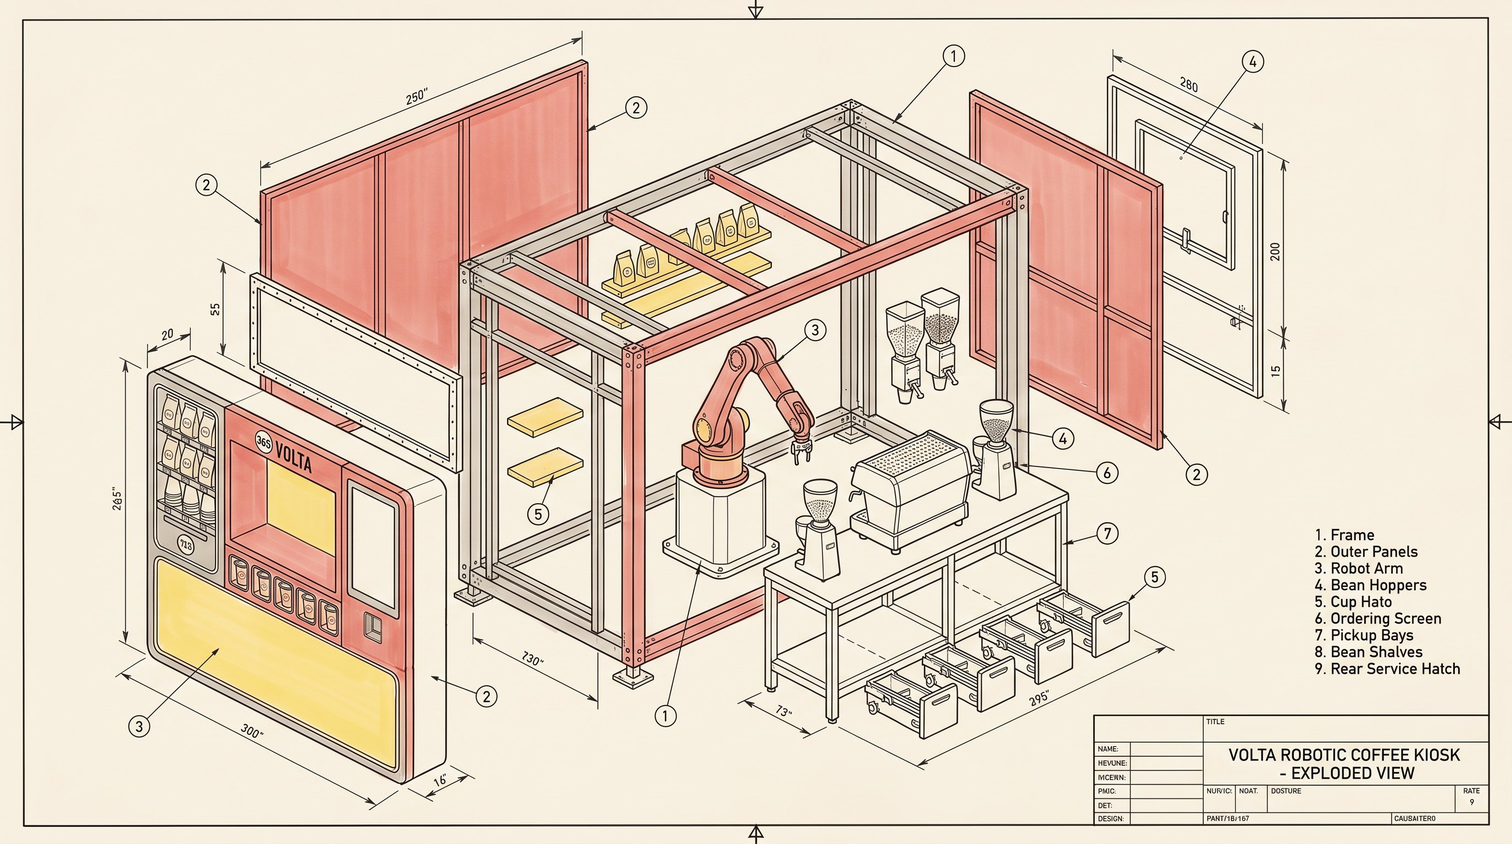
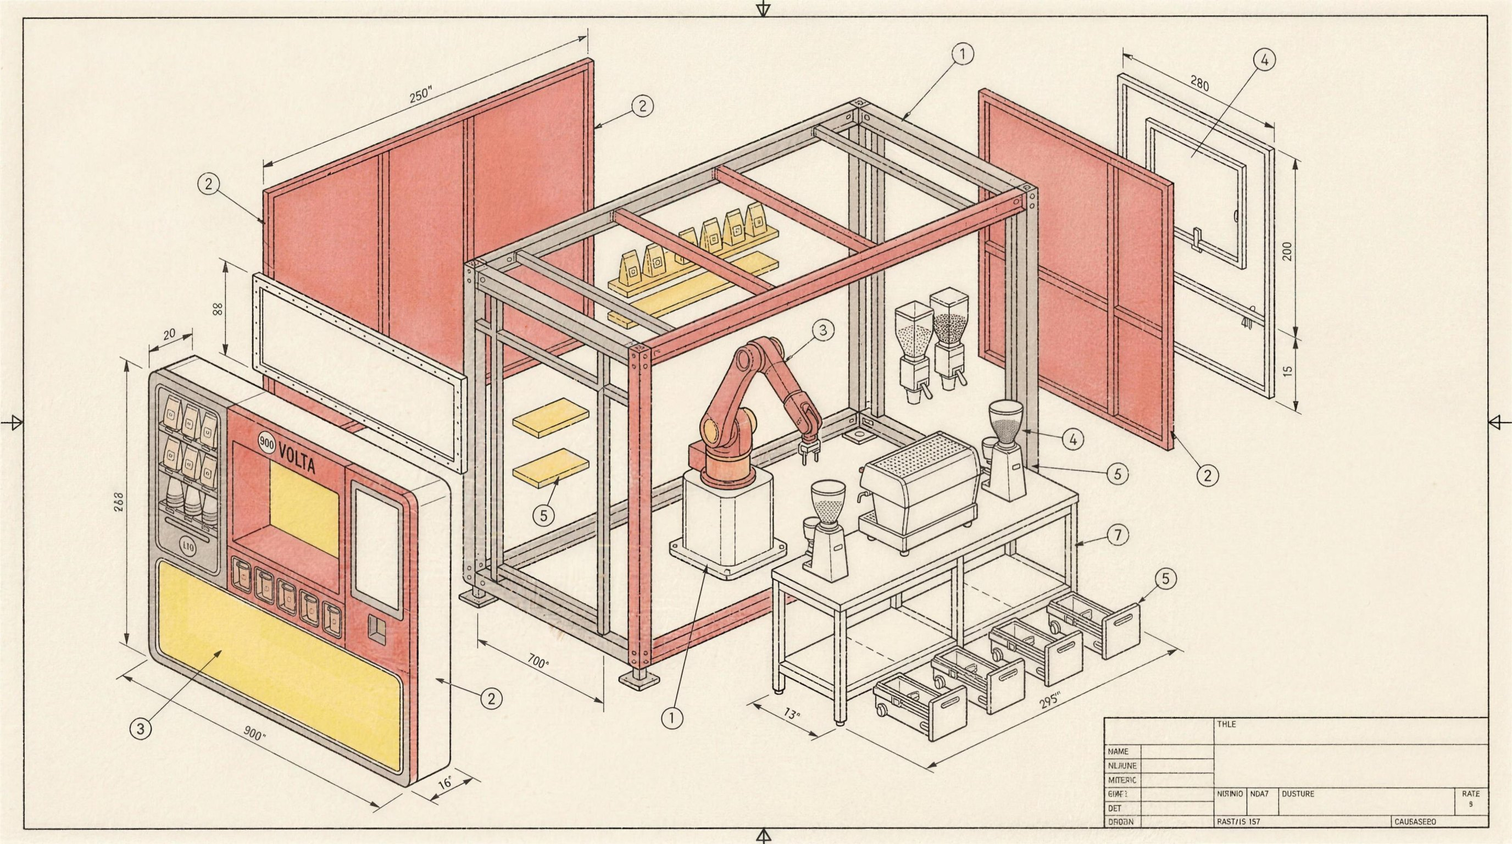
Plan to open plays as a film the scroll drives
Jesse: "a 3D scroll from plan to build, with motion, a scroll trigger", and it
may become the website's opening. Seven clips filmed between the eight
established frames (each locked to its start and end frame) are cut to 141
frames; src/scrub.js draws the one for where the window is, forwards and
backwards, loading only as the film comes near. The film is one snap area so
the scroll runs through it freely. build.py injects scrub.js; the export
copies every frame a data-frames attribute names. The exploded drawing loses
its misspelled legend.

diff --git a/deck/coffee-machine/index.html b/deck/coffee-machine/index.html
@@ -107,6 +107,12 @@
   .seq-back{position:sticky;top:var(--bar);height:calc(100vh - var(--bar));height:calc(100svh - var(--bar));overflow:hidden;margin-bottom:calc(-100vh + var(--bar));margin-bottom:calc(-100svh + var(--bar));background:var(--night)}
   .seq-back img{position:absolute;inset:0;width:100%;height:100%;object-fit:cover;opacity:0}
   .seq-back img.b1{opacity:1}
+  /* The plan to open film (src/scrub.js): the canvas covers the first still once it can draw, and the whole film is
+     one snap area, so the scroll runs through it freely instead of stopping at each stage. */
+  .seq-back canvas{position:absolute;inset:0;width:100%;height:100%;opacity:0}
+  .seq-back canvas.live{opacity:1}
+  .seq.film{scroll-snap-align:start}
+  .seq.film .stage{scroll-snap-align:none;scroll-snap-stop:normal}
   .seq .slide{background:transparent!important}
   .seq .full{background:transparent}
   .seq .full::before{content:"";position:absolute;inset:0;background:transparent}
@@ -551,16 +557,10 @@
   </div></div>
 </section>
 
-<div class="seq">
+<div class="seq film">
   <div class="seq-back" aria-hidden="true">
-    <img src="../../img/deck/build-1.jpg" width="2752" height="1536" alt="Volta, the floor plan" data-at="0" class="b1">
-    <img src="../../img/deck/build-2.jpg" width="2752" height="1536" alt="Volta, the sketch" data-at="1">
-    <img src="../../img/deck/build-3.jpg" width="2752" height="1536" alt="Volta, the machine drawn part by part" data-at="2">
-    <img src="../../img/deck/build-4.jpg" width="2752" height="1536" alt="Volta, the bare frame" data-at="3">
-    <img src="../../img/deck/build-5.jpg" width="2752" height="1536" alt="Volta, the machine in the frame" data-at="3.34">
-    <img src="../../img/deck/build-6.jpg" width="2752" height="1536" alt="Volta, the panels on" data-at="3.67">
-    <img src="../../img/deck/build-7.jpg" width="2752" height="1536" alt="Volta, the brand going on" data-at="4">
-    <img src="../../img/deck/build-8.jpg" width="2752" height="1536" alt="Volta, trading" data-at="5">
+    <img src="../../img/deck/build-1.jpg" width="2752" height="1536" alt="Volta, the floor plan" class="b1">
+    <canvas data-frames="../../img/deck/plan-to-open/f{n}.webp" data-count="141" data-knots="0,20,40,80,120,140"></canvas>
   </div>
 <section class="stage" id="s4" aria-label="Slide 4. Plan to open, plan">
   <div class="slide"><div class="in full life">
@@ -1123,6 +1123,7 @@ window.WonderSneak = (function () {
 /* Each pinned scroll (plan to open, the machines): as the window moves through the stages, each picture fades up over the last. A picture's data-at
    is the stage it belongs to; the build has three pictures inside one stage, so the machine goes up as you scroll it. */
 [].forEach.call(document.querySelectorAll('.seq'), function (seq) {
+  if (seq.querySelector('canvas[data-frames]')) return;   // a film: src/scrub.js plays it
   var imgs = [].slice.call(seq.querySelectorAll('.seq-back img')), st = [].slice.call(seq.querySelectorAll('.stage'));
   function tick() {
     var h = st[0].offsetHeight || 1, p = (window.scrollY + (document.getElementById('bar') || {offsetHeight: 0}).offsetHeight - (seq.getBoundingClientRect().top + window.scrollY)) / h;
@@ -1130,6 +1131,61 @@ window.WonderSneak = (function () {
   }
   window.addEventListener('scroll', tick, { passive: true }); tick();
 });
+</script>
+<script>
+/* A film the scroll plays (Jesse, 26 Oct 2026: "a 3D scroll from plan to build, with motion, a scroll trigger").
+   A canvas in a pinned .seq backdrop draws one frame of an image sequence for where the window is: scroll on and it
+   plays, scroll back and it plays backwards. data-frames is the path with {n} for the three-digit frame number,
+   data-count how many frames, data-knots the frame each stage rests on (one per .stage in the .seq), so the words
+   and the picture always agree. Frames load as the film comes near, in passes (every 8th, then 4th, 2nd, all) and the nearest loaded frame
+   is drawn meanwhile, so it plays from the first second and sharpens as it loads. Without the canvas (print, a
+   phone, no script) the stills in the slides stand in. */
+[].forEach.call(document.querySelectorAll('.seq canvas[data-frames]'), function (cv) {
+  var seq = cv.closest('.seq'), st = [].slice.call(seq.querySelectorAll('.stage'));
+  var n = +cv.getAttribute('data-count'), knots = cv.getAttribute('data-knots').split(',').map(Number);
+  if (!cv.getClientRects().length) return;   // the backdrop is off (a phone, print): the stills stand in, nothing loads
+  if (!n || knots.length !== st.length) return;   // a mismatch would put the words over the wrong picture: show the stills
+  var pad = function (i) { return ('00' + i).slice(-3); }, src = cv.getAttribute('data-frames');
+  var imgs = new Array(n), ctx = cv.getContext('2d'), shown = -1, want = 0, bar = document.getElementById('bar');
+  function fit() {
+    var r = cv.getBoundingClientRect(), d = Math.min(window.devicePixelRatio || 1, 2);
+    cv.width = Math.round(r.width * d); cv.height = Math.round(r.height * d); shown = -1; draw();
+  }
+  function nearest(i) {
+    for (var k = 0; k < n; k++) {
+      if (i - k >= 0 && imgs[i - k] && imgs[i - k].ok) return i - k;
+      if (i + k < n && imgs[i + k] && imgs[i + k].ok) return i + k;
+    }
+    return -1;
+  }
+  function draw() {
+    var i = nearest(want); if (i < 0 || i === shown) return;
+    var im = imgs[i], s = Math.max(cv.width / im.naturalWidth, cv.height / im.naturalHeight);
+    var w = im.naturalWidth * s, h = im.naturalHeight * s;
+    ctx.drawImage(im, (cv.width - w) / 2, (cv.height - h) / 2, w, h); shown = i;
+  }
+  function tick() {
+    var top = seq.getBoundingClientRect().top - (bar ? bar.offsetHeight : 0);
+    var p = Math.max(0, Math.min(st.length - 1, -top / (st[0].offsetHeight || 1))), k = Math.min(Math.floor(p), knots.length - 2);
+    want = Math.round(knots[k] + (knots[k + 1] - knots[k]) * (p - k)); draw();
+  }
+  function load(i) {
+    if (imgs[i]) return;
+    var im = new Image(); im.decoding = 'async';
+    im.onload = function () { im.ok = true; if (Math.abs(i - want) <= Math.abs(shown - want) || shown < 0) { shown = -1; draw(); } };
+    im.src = src.replace('{n}', pad(i)); imgs[i] = im;
+  }
+  function start() { [8, 4, 2, 1].forEach(function (step) { for (var i = 0; i < n; i += step) load(i); }); }
+  // nothing loads until the film is about a screen away, so the slides before it never wait on it
+  if ('IntersectionObserver' in window) {
+    var io = new IntersectionObserver(function (es) { if (es[0].isIntersecting) { io.disconnect(); start(); } }, { rootMargin: '100% 0px' });
+    io.observe(seq);
+  } else start();
+  cv.classList.add('live');
+  window.addEventListener('resize', fit); window.addEventListener('scroll', function () { tick(); }, { passive: true });
+  fit(); tick();
+});
+
 </script>
 </body>
 </html>

diff --git a/deck/information/index.html b/deck/information/index.html
@@ -107,6 +107,12 @@
   .seq-back{position:sticky;top:var(--bar);height:calc(100vh - var(--bar));height:calc(100svh - var(--bar));overflow:hidden;margin-bottom:calc(-100vh + var(--bar));margin-bottom:calc(-100svh + var(--bar));background:var(--night)}
   .seq-back img{position:absolute;inset:0;width:100%;height:100%;object-fit:cover;opacity:0}
   .seq-back img.b1{opacity:1}
+  /* The plan to open film (src/scrub.js): the canvas covers the first still once it can draw, and the whole film is
+     one snap area, so the scroll runs through it freely instead of stopping at each stage. */
+  .seq-back canvas{position:absolute;inset:0;width:100%;height:100%;opacity:0}
+  .seq-back canvas.live{opacity:1}
+  .seq.film{scroll-snap-align:start}
+  .seq.film .stage{scroll-snap-align:none;scroll-snap-stop:normal}
   .seq .slide{background:transparent!important}
   .seq .full{background:transparent}
   .seq .full::before{content:"";position:absolute;inset:0;background:transparent}
@@ -552,16 +558,10 @@
   </div></div>
 </section>
 
-<div class="seq">
+<div class="seq film">
   <div class="seq-back" aria-hidden="true">
-    <img src="../../img/deck/build-1.jpg" width="2752" height="1536" alt="Volta, the floor plan" data-at="0" class="b1">
-    <img src="../../img/deck/build-2.jpg" width="2752" height="1536" alt="Volta, the sketch" data-at="1">
-    <img src="../../img/deck/build-3.jpg" width="2752" height="1536" alt="Volta, the machine drawn part by part" data-at="2">
-    <img src="../../img/deck/build-4.jpg" width="2752" height="1536" alt="Volta, the bare frame" data-at="3">
-    <img src="../../img/deck/build-5.jpg" width="2752" height="1536" alt="Volta, the machine in the frame" data-at="3.34">
-    <img src="../../img/deck/build-6.jpg" width="2752" height="1536" alt="Volta, the panels on" data-at="3.67">
-    <img src="../../img/deck/build-7.jpg" width="2752" height="1536" alt="Volta, the brand going on" data-at="4">
-    <img src="../../img/deck/build-8.jpg" width="2752" height="1536" alt="Volta, trading" data-at="5">
+    <img src="../../img/deck/build-1.jpg" width="2752" height="1536" alt="Volta, the floor plan" class="b1">
+    <canvas data-frames="../../img/deck/plan-to-open/f{n}.webp" data-count="141" data-knots="0,20,40,80,120,140"></canvas>
   </div>
 <section class="stage" id="s4" aria-label="Slide 4. Plan to open, plan">
   <div class="slide"><div class="in full life">
@@ -1294,6 +1294,7 @@ window.WonderSneak = (function () {
 /* Each pinned scroll (plan to open, the machines): as the window moves through the stages, each picture fades up over the last. A picture's data-at
    is the stage it belongs to; the build has three pictures inside one stage, so the machine goes up as you scroll it. */
 [].forEach.call(document.querySelectorAll('.seq'), function (seq) {
+  if (seq.querySelector('canvas[data-frames]')) return;   // a film: src/scrub.js plays it
   var imgs = [].slice.call(seq.querySelectorAll('.seq-back img')), st = [].slice.call(seq.querySelectorAll('.stage'));
   function tick() {
     var h = st[0].offsetHeight || 1, p = (window.scrollY + (document.getElementById('bar') || {offsetHeight: 0}).offsetHeight - (seq.getBoundingClientRect().top + window.scrollY)) / h;
@@ -1301,6 +1302,61 @@ window.WonderSneak = (function () {
   }
   window.addEventListener('scroll', tick, { passive: true }); tick();
 });
+</script>
+<script>
+/* A film the scroll plays (Jesse, 26 Oct 2026: "a 3D scroll from plan to build, with motion, a scroll trigger").
+   A canvas in a pinned .seq backdrop draws one frame of an image sequence for where the window is: scroll on and it
+   plays, scroll back and it plays backwards. data-frames is the path with {n} for the three-digit frame number,
+   data-count how many frames, data-knots the frame each stage rests on (one per .stage in the .seq), so the words
+   and the picture always agree. Frames load as the film comes near, in passes (every 8th, then 4th, 2nd, all) and the nearest loaded frame
+   is drawn meanwhile, so it plays from the first second and sharpens as it loads. Without the canvas (print, a
+   phone, no script) the stills in the slides stand in. */
+[].forEach.call(document.querySelectorAll('.seq canvas[data-frames]'), function (cv) {
+  var seq = cv.closest('.seq'), st = [].slice.call(seq.querySelectorAll('.stage'));
+  var n = +cv.getAttribute('data-count'), knots = cv.getAttribute('data-knots').split(',').map(Number);
+  if (!cv.getClientRects().length) return;   // the backdrop is off (a phone, print): the stills stand in, nothing loads
+  if (!n || knots.length !== st.length) return;   // a mismatch would put the words over the wrong picture: show the stills
+  var pad = function (i) { return ('00' + i).slice(-3); }, src = cv.getAttribute('data-frames');
+  var imgs = new Array(n), ctx = cv.getContext('2d'), shown = -1, want = 0, bar = document.getElementById('bar');
+  function fit() {
+    var r = cv.getBoundingClientRect(), d = Math.min(window.devicePixelRatio || 1, 2);
+    cv.width = Math.round(r.width * d); cv.height = Math.round(r.height * d); shown = -1; draw();
+  }
+  function nearest(i) {
+    for (var k = 0; k < n; k++) {
+      if (i - k >= 0 && imgs[i - k] && imgs[i - k].ok) return i - k;
+      if (i + k < n && imgs[i + k] && imgs[i + k].ok) return i + k;
+    }
+    return -1;
+  }
+  function draw() {
+    var i = nearest(want); if (i < 0 || i === shown) return;
+    var im = imgs[i], s = Math.max(cv.width / im.naturalWidth, cv.height / im.naturalHeight);
+    var w = im.naturalWidth * s, h = im.naturalHeight * s;
+    ctx.drawImage(im, (cv.width - w) / 2, (cv.height - h) / 2, w, h); shown = i;
+  }
+  function tick() {
+    var top = seq.getBoundingClientRect().top - (bar ? bar.offsetHeight : 0);
+    var p = Math.max(0, Math.min(st.length - 1, -top / (st[0].offsetHeight || 1))), k = Math.min(Math.floor(p), knots.length - 2);
+    want = Math.round(knots[k] + (knots[k + 1] - knots[k]) * (p - k)); draw();
+  }
+  function load(i) {
+    if (imgs[i]) return;
+    var im = new Image(); im.decoding = 'async';
+    im.onload = function () { im.ok = true; if (Math.abs(i - want) <= Math.abs(shown - want) || shown < 0) { shown = -1; draw(); } };
+    im.src = src.replace('{n}', pad(i)); imgs[i] = im;
+  }
+  function start() { [8, 4, 2, 1].forEach(function (step) { for (var i = 0; i < n; i += step) load(i); }); }
+  // nothing loads until the film is about a screen away, so the slides before it never wait on it
+  if ('IntersectionObserver' in window) {
+    var io = new IntersectionObserver(function (es) { if (es[0].isIntersecting) { io.disconnect(); start(); } }, { rootMargin: '100% 0px' });
+    io.observe(seq);
+  } else start();
+  cv.classList.add('live');
+  window.addEventListener('resize', fit); window.addEventListener('scroll', function () { tick(); }, { passive: true });
+  fit(); tick();
+});
+
 </script>
 </body>
 </html>

diff --git a/src/scrub.js b/src/scrub.js
@@ -1,0 +1,52 @@
+/* A film the scroll plays (Jesse, 26 Oct 2026: "a 3D scroll from plan to build, with motion, a scroll trigger").
+   A canvas in a pinned .seq backdrop draws one frame of an image sequence for where the window is: scroll on and it
+   plays, scroll back and it plays backwards. data-frames is the path with {n} for the three-digit frame number,
+   data-count how many frames, data-knots the frame each stage rests on (one per .stage in the .seq), so the words
+   and the picture always agree. Frames load as the film comes near, in passes (every 8th, then 4th, 2nd, all) and the nearest loaded frame
+   is drawn meanwhile, so it plays from the first second and sharpens as it loads. Without the canvas (print, a
+   phone, no script) the stills in the slides stand in. */
+[].forEach.call(document.querySelectorAll('.seq canvas[data-frames]'), function (cv) {
+  var seq = cv.closest('.seq'), st = [].slice.call(seq.querySelectorAll('.stage'));
+  var n = +cv.getAttribute('data-count'), knots = cv.getAttribute('data-knots').split(',').map(Number);
+  if (!cv.getClientRects().length) return;   // the backdrop is off (a phone, print): the stills stand in, nothing loads
+  if (!n || knots.length !== st.length) return;   // a mismatch would put the words over the wrong picture: show the stills
+  var pad = function (i) { return ('00' + i).slice(-3); }, src = cv.getAttribute('data-frames');
+  var imgs = new Array(n), ctx = cv.getContext('2d'), shown = -1, want = 0, bar = document.getElementById('bar');
+  function fit() {
+    var r = cv.getBoundingClientRect(), d = Math.min(window.devicePixelRatio || 1, 2);
+    cv.width = Math.round(r.width * d); cv.height = Math.round(r.height * d); shown = -1; draw();
+  }
+  function nearest(i) {
+    for (var k = 0; k < n; k++) {
+      if (i - k >= 0 && imgs[i - k] && imgs[i - k].ok) return i - k;
+      if (i + k < n && imgs[i + k] && imgs[i + k].ok) return i + k;
+    }
+    return -1;
+  }
+  function draw() {
+    var i = nearest(want); if (i < 0 || i === shown) return;
+    var im = imgs[i], s = Math.max(cv.width / im.naturalWidth, cv.height / im.naturalHeight);
+    var w = im.naturalWidth * s, h = im.naturalHeight * s;
+    ctx.drawImage(im, (cv.width - w) / 2, (cv.height - h) / 2, w, h); shown = i;
+  }
+  function tick() {
+    var top = seq.getBoundingClientRect().top - (bar ? bar.offsetHeight : 0);
+    var p = Math.max(0, Math.min(st.length - 1, -top / (st[0].offsetHeight || 1))), k = Math.min(Math.floor(p), knots.length - 2);
+    want = Math.round(knots[k] + (knots[k + 1] - knots[k]) * (p - k)); draw();
+  }
+  function load(i) {
+    if (imgs[i]) return;
+    var im = new Image(); im.decoding = 'async';
+    im.onload = function () { im.ok = true; if (Math.abs(i - want) <= Math.abs(shown - want) || shown < 0) { shown = -1; draw(); } };
+    im.src = src.replace('{n}', pad(i)); imgs[i] = im;
+  }
+  function start() { [8, 4, 2, 1].forEach(function (step) { for (var i = 0; i < n; i += step) load(i); }); }
+  // nothing loads until the film is about a screen away, so the slides before it never wait on it
+  if ('IntersectionObserver' in window) {
+    var io = new IntersectionObserver(function (es) { if (es[0].isIntersecting) { io.disconnect(); start(); } }, { rootMargin: '100% 0px' });
+    io.observe(seq);
+  } else start();
+  cv.classList.add('live');
+  window.addEventListener('resize', fit); window.addEventListener('scroll', function () { tick(); }, { passive: true });
+  fit(); tick();
+});

diff --git a/src/information-deck.html b/src/information-deck.html
@@ -100,6 +100,12 @@
   .seq-back{position:sticky;top:var(--bar);height:calc(100vh - var(--bar));height:calc(100svh - var(--bar));overflow:hidden;margin-bottom:calc(-100vh + var(--bar));margin-bottom:calc(-100svh + var(--bar));background:var(--night)}
   .seq-back img{position:absolute;inset:0;width:100%;height:100%;object-fit:cover;opacity:0}
   .seq-back img.b1{opacity:1}
+  /* The plan to open film (src/scrub.js): the canvas covers the first still once it can draw, and the whole film is
+     one snap area, so the scroll runs through it freely instead of stopping at each stage. */
+  .seq-back canvas{position:absolute;inset:0;width:100%;height:100%;opacity:0}
+  .seq-back canvas.live{opacity:1}
+  .seq.film{scroll-snap-align:start}
+  .seq.film .stage{scroll-snap-align:none;scroll-snap-stop:normal}
   .seq .slide{background:transparent!important}
   .seq .full{background:transparent}
   .seq .full::before{content:"";position:absolute;inset:0;background:transparent}
@@ -545,16 +551,10 @@
   </div></div>
 </section>
 
-<div class="seq">
+<div class="seq film">
   <div class="seq-back" aria-hidden="true">
-    <img src="{{root}}img/deck/build-1.jpg" width="2752" height="1536" alt="Volta, the floor plan" data-at="0" class="b1">
-    <img src="{{root}}img/deck/build-2.jpg" width="2752" height="1536" alt="Volta, the sketch" data-at="1">
-    <img src="{{root}}img/deck/build-3.jpg" width="2752" height="1536" alt="Volta, the machine drawn part by part" data-at="2">
-    <img src="{{root}}img/deck/build-4.jpg" width="2752" height="1536" alt="Volta, the bare frame" data-at="3">
-    <img src="{{root}}img/deck/build-5.jpg" width="2752" height="1536" alt="Volta, the machine in the frame" data-at="3.34">
-    <img src="{{root}}img/deck/build-6.jpg" width="2752" height="1536" alt="Volta, the panels on" data-at="3.67">
-    <img src="{{root}}img/deck/build-7.jpg" width="2752" height="1536" alt="Volta, the brand going on" data-at="4">
-    <img src="{{root}}img/deck/build-8.jpg" width="2752" height="1536" alt="Volta, trading" data-at="5">
+    <img src="{{root}}img/deck/build-1.jpg" width="2752" height="1536" alt="Volta, the floor plan" class="b1">
+    <canvas data-frames="{{root}}img/deck/plan-to-open/f{n}.webp" data-count="141" data-knots="0,20,40,80,120,140"></canvas>
   </div>
 <section class="stage" id="s{{i}}" aria-label="Slide {{i}}. Plan to open, plan">
   <div class="slide"><div class="in full life">
@@ -1108,6 +1108,7 @@
 /* Each pinned scroll (plan to open, the machines): as the window moves through the stages, each picture fades up over the last. A picture's data-at
    is the stage it belongs to; the build has three pictures inside one stage, so the machine goes up as you scroll it. */
 [].forEach.call(document.querySelectorAll('.seq'), function (seq) {
+  if (seq.querySelector('canvas[data-frames]')) return;   // a film: src/scrub.js plays it
   var imgs = [].slice.call(seq.querySelectorAll('.seq-back img')), st = [].slice.call(seq.querySelectorAll('.stage'));
   function tick() {
     var h = st[0].offsetHeight || 1, p = (window.scrollY + (document.getElementById('bar') || {offsetHeight: 0}).offsetHeight - (seq.getBoundingClientRect().top + window.scrollY)) / h;
@@ -1115,6 +1116,9 @@
   }
   window.addEventListener('scroll', tick, { passive: true }); tick();
 });
+</script>
+<script>
+{{scrubjs}}
 </script>
 </body>
 </html>

diff --git a/src/coffee-machine-deck.html b/src/coffee-machine-deck.html
@@ -100,6 +100,12 @@
   .seq-back{position:sticky;top:var(--bar);height:calc(100vh - var(--bar));height:calc(100svh - var(--bar));overflow:hidden;margin-bottom:calc(-100vh + var(--bar));margin-bottom:calc(-100svh + var(--bar));background:var(--night)}
   .seq-back img{position:absolute;inset:0;width:100%;height:100%;object-fit:cover;opacity:0}
   .seq-back img.b1{opacity:1}
+  /* The plan to open film (src/scrub.js): the canvas covers the first still once it can draw, and the whole film is
+     one snap area, so the scroll runs through it freely instead of stopping at each stage. */
+  .seq-back canvas{position:absolute;inset:0;width:100%;height:100%;opacity:0}
+  .seq-back canvas.live{opacity:1}
+  .seq.film{scroll-snap-align:start}
+  .seq.film .stage{scroll-snap-align:none;scroll-snap-stop:normal}
   .seq .slide{background:transparent!important}
   .seq .full{background:transparent}
   .seq .full::before{content:"";position:absolute;inset:0;background:transparent}
@@ -544,16 +550,10 @@
   </div></div>
 </section>
 
-<div class="seq">
+<div class="seq film">
   <div class="seq-back" aria-hidden="true">
-    <img src="{{root}}img/deck/build-1.jpg" width="2752" height="1536" alt="Volta, the floor plan" data-at="0" class="b1">
-    <img src="{{root}}img/deck/build-2.jpg" width="2752" height="1536" alt="Volta, the sketch" data-at="1">
-    <img src="{{root}}img/deck/build-3.jpg" width="2752" height="1536" alt="Volta, the machine drawn part by part" data-at="2">
-    <img src="{{root}}img/deck/build-4.jpg" width="2752" height="1536" alt="Volta, the bare frame" data-at="3">
-    <img src="{{root}}img/deck/build-5.jpg" width="2752" height="1536" alt="Volta, the machine in the frame" data-at="3.34">
-    <img src="{{root}}img/deck/build-6.jpg" width="2752" height="1536" alt="Volta, the panels on" data-at="3.67">
-    <img src="{{root}}img/deck/build-7.jpg" width="2752" height="1536" alt="Volta, the brand going on" data-at="4">
-    <img src="{{root}}img/deck/build-8.jpg" width="2752" height="1536" alt="Volta, trading" data-at="5">
+    <img src="{{root}}img/deck/build-1.jpg" width="2752" height="1536" alt="Volta, the floor plan" class="b1">
+    <canvas data-frames="{{root}}img/deck/plan-to-open/f{n}.webp" data-count="141" data-knots="0,20,40,80,120,140"></canvas>
   </div>
 <section class="stage" id="s{{i}}" aria-label="Slide {{i}}. Plan to open, plan">
   <div class="slide"><div class="in full life">
@@ -937,6 +937,7 @@
 /* Each pinned scroll (plan to open, the machines): as the window moves through the stages, each picture fades up over the last. A picture's data-at
    is the stage it belongs to; the build has three pictures inside one stage, so the machine goes up as you scroll it. */
 [].forEach.call(document.querySelectorAll('.seq'), function (seq) {
+  if (seq.querySelector('canvas[data-frames]')) return;   // a film: src/scrub.js plays it
   var imgs = [].slice.call(seq.querySelectorAll('.seq-back img')), st = [].slice.call(seq.querySelectorAll('.stage'));
   function tick() {
     var h = st[0].offsetHeight || 1, p = (window.scrollY + (document.getElementById('bar') || {offsetHeight: 0}).offsetHeight - (seq.getBoundingClientRect().top + window.scrollY)) / h;
@@ -944,6 +945,9 @@
   }
   window.addEventListener('scroll', tick, { passive: true }); tick();
 });
+</script>
+<script>
+{{scrubjs}}
 </script>
 </body>
 </html>

diff --git a/decks_export.py b/decks_export.py
@@ -99,6 +99,9 @@ def main():
             sys.exit(f"{name}: the old number is still on the page")
         seen = html + (GATE.read_text() if name in GATED else "")   # the login is put in later; its pictures go now
         files = set(re.findall(r'(?:src|srcset|poster)="\.\./((?:img|fonts)/[^"?\s]+)', seen)) | set(re.findall(r'url\(["\']?\.\./((?:img|fonts)/[^)"\'?]+)', seen))
+        # a film the scroll plays (src/scrub.js) names its frames once, with {n} for the frame number
+        for path, count in re.findall(r'data-frames="\.\./((?:img)/[^"]+)" data-count="(\d+)"', seen):
+            files |= {path.replace("{n}", f"{i:03d}") for i in range(int(count))}
         for f in files:
             if not (HERE / f).exists():
                 sys.exit(f"{name}: no such file, {f}")

diff --git a/build.py b/build.py
@@ -1284,6 +1284,7 @@ def deck(name):
     html = html.replace("{{icons}}", ICONS).replace("{{fonts}}", FONTS).replace("{{site}}", SITE).replace("{{root}}", root)
     # the drawn mark and the robot's peek round the moon, the site's own code (a deck is one file)
     html = html.replace("{{markjs}}", (SRC / "mark.js").read_text()).replace("{{sneakjs}}", SNEAK_JS)
+    html = html.replace("{{scrubjs}}", (SRC / "scrub.js").read_text())
     if "{{" in html:
         sys.exit(f"{name} deck has an unfilled token")
     for src in re.findall(r'src="' + re.escape(root) + r'([^"]+)"', html):
